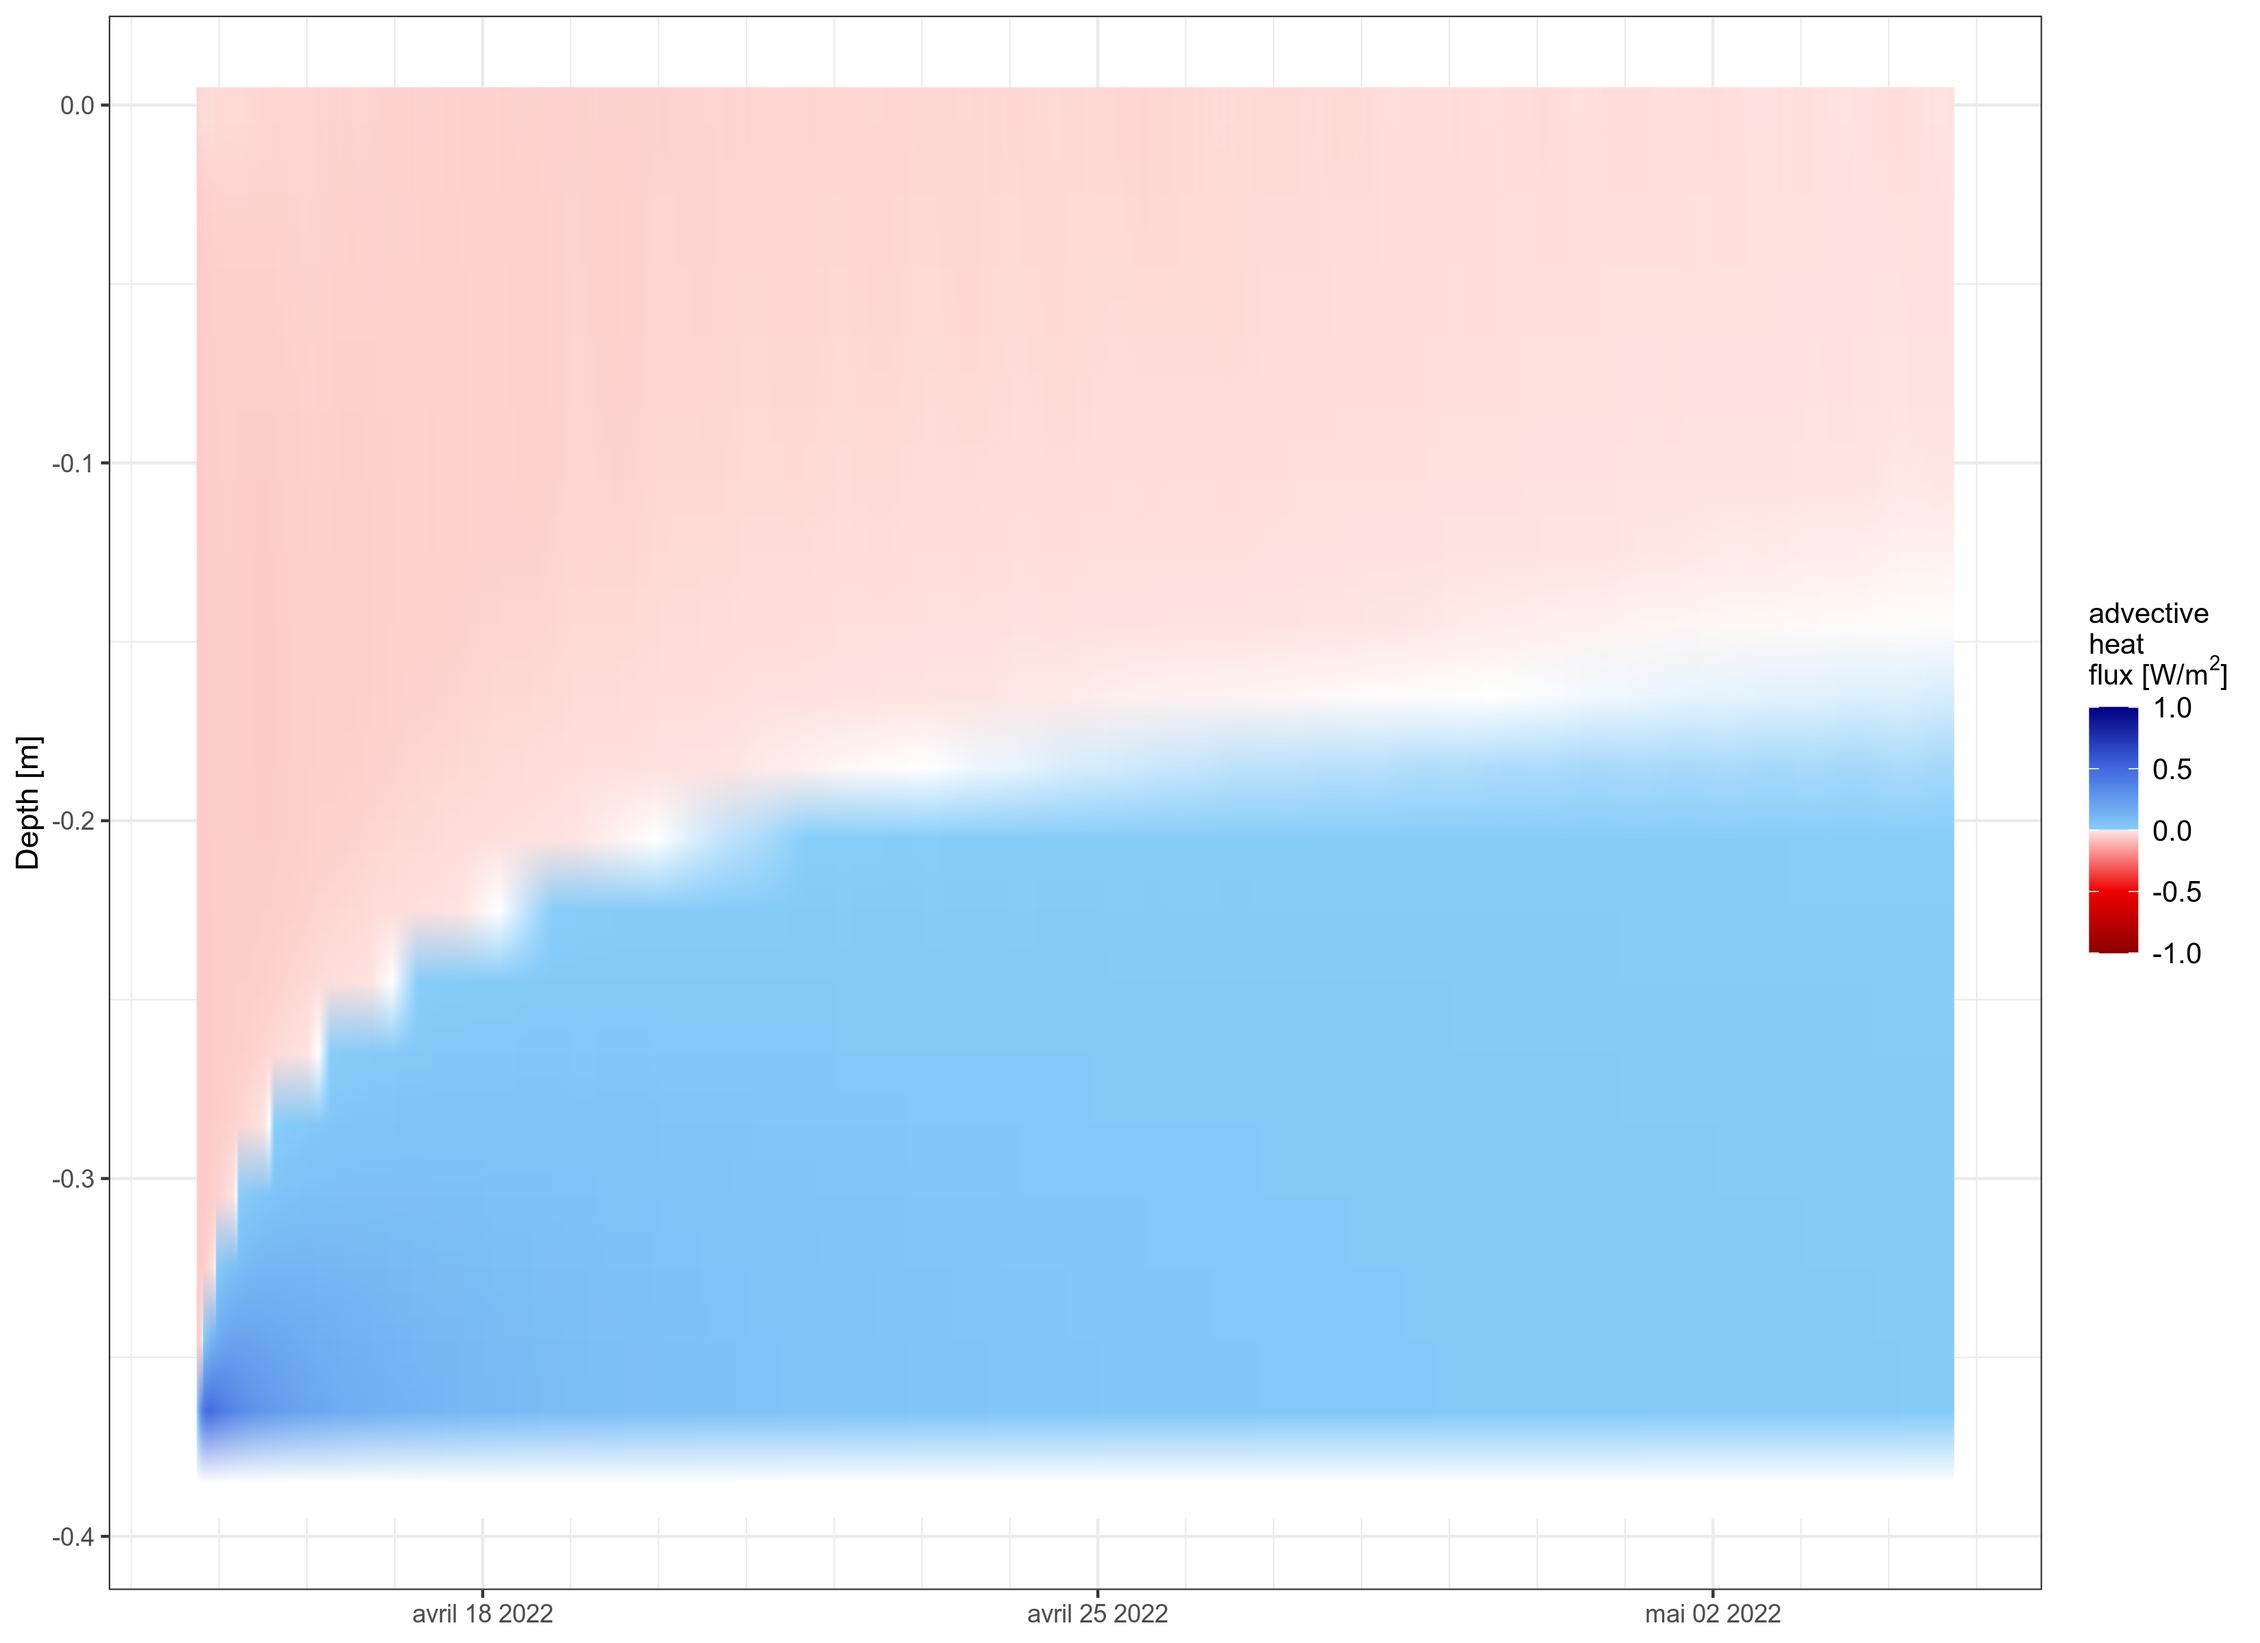
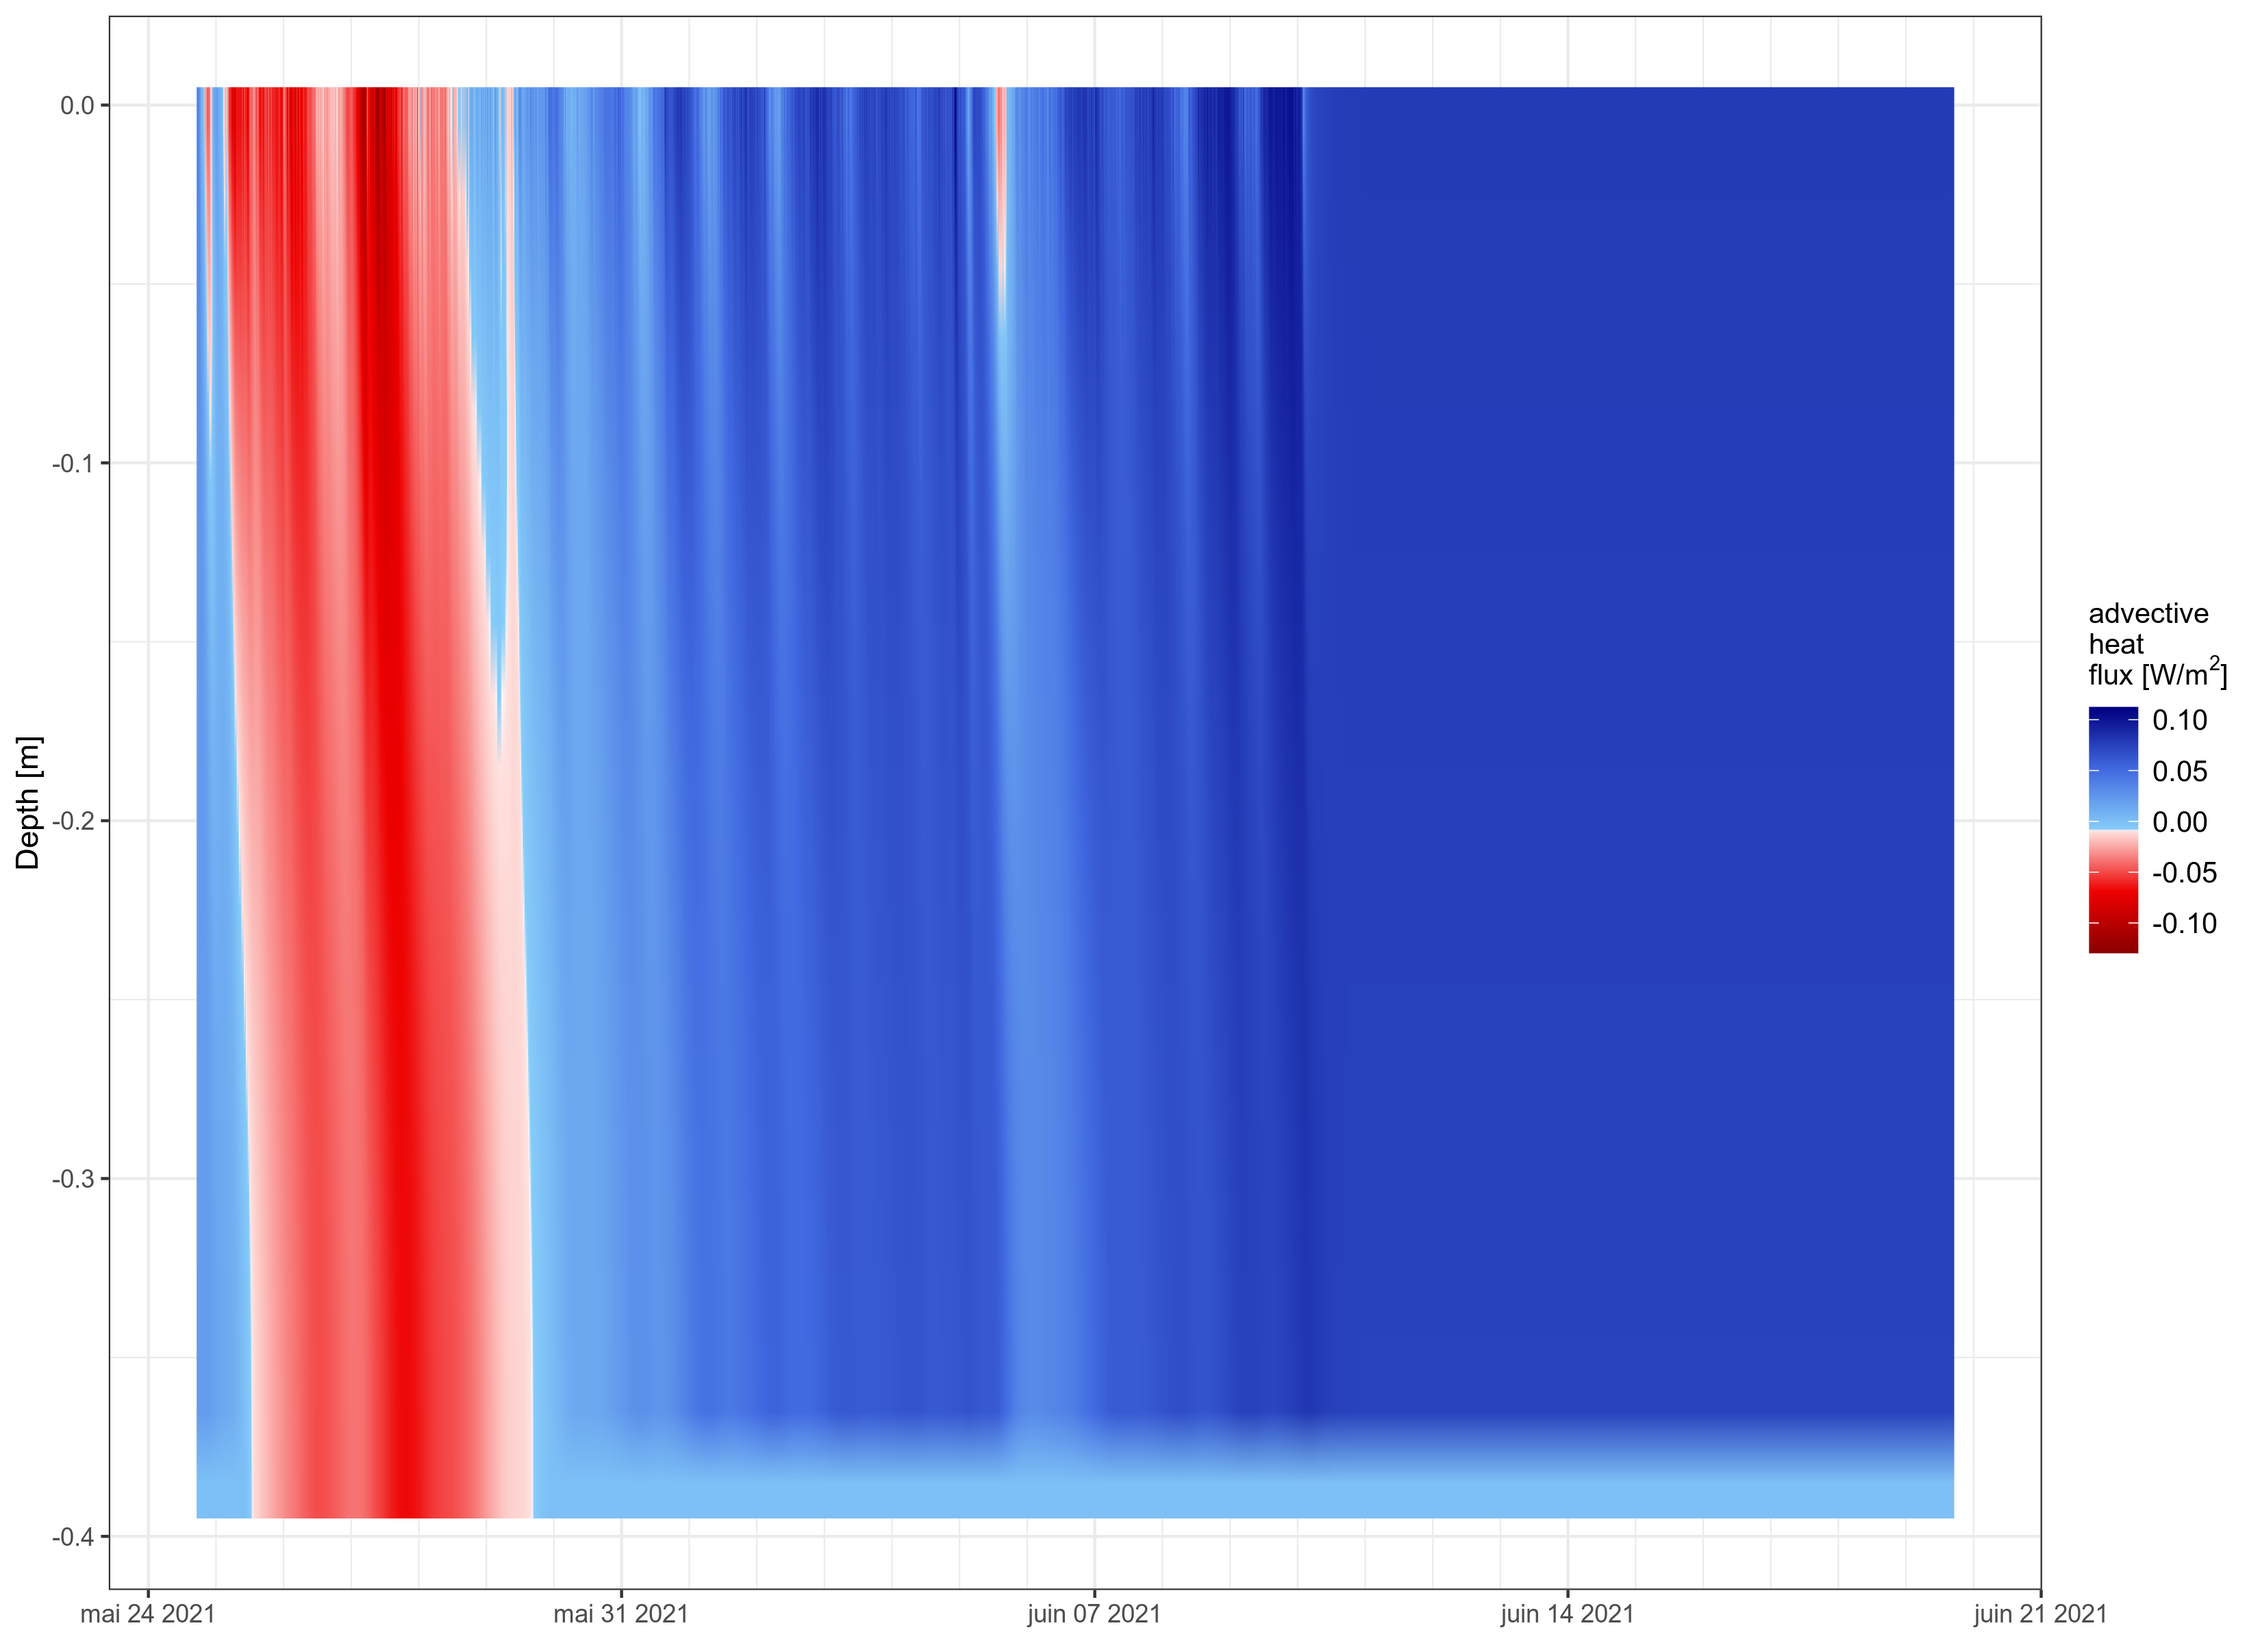
moustapha

diff --git a/application/mini-LOMOS/LOMOS_ginette_plot.py b/application/mini-LOMOS/LOMOS_ginette_plot.py
@@ -14,10 +14,10 @@ os.chdir(path_mini_lomos)
 path_plot='PLOT'
 os.chdir(os.path.join(path_mini_lomos,path_plot))
 import subprocess
-namePointT='T3_Point3Nelly_14_04_22.csv'
-namePointP='P2_Point3Nelly_14_04_22.csv'
-date_begin='14/04/2022 17:45:00'
-sim_name=2
+namePointT='t5_p5amont1_12_05_21.csv'
+namePointP='p5_p5amont1_12_05_21.csv'
+date_begin='12/05/2021 17:45:00'
+sim_name=1
 
 #functions R# - 
 robjects.r.source("Plot_function.R")
@@ -26,15 +26,15 @@ robjects.r.source("Plot_function.R")
 robjects.r['temperature_ts'](sim_name,date_begin)
 
 #Plot Temperature profile
-robjects.r['temperature_profile'](sim_name)
+#robjects.r['temperature_profile'](sim_name)
 
 
 
 #Plot conductive_fluxes interpolated with time and depth
-robjects.r['conductive_fluxes'](sim_name)
+#robjects.r['conductive_fluxes'](sim_name)
 
 #Plot advective_fluxes
-robjects.r['advective_fluxes'](sim_name)
+#robjects.r['advective_fluxes'](sim_name)
 
 
 #Plot fluxes interface stream-aquifer

diff --git a/application/mini-LOMOS/LOMOS_ginette.py b/application/mini-LOMOS/LOMOS_ginette.py
@@ -180,6 +180,7 @@ with open(ftestedvalues, 'w') as f:
 #Observation in meter
 with open(Inversion_PT100, "r") as file1:
     f_list = [float(line) for line in file1 ]
+    print(line)
 
 if len(f_list) ==4:
     Obs1=-f_list[0]/100
